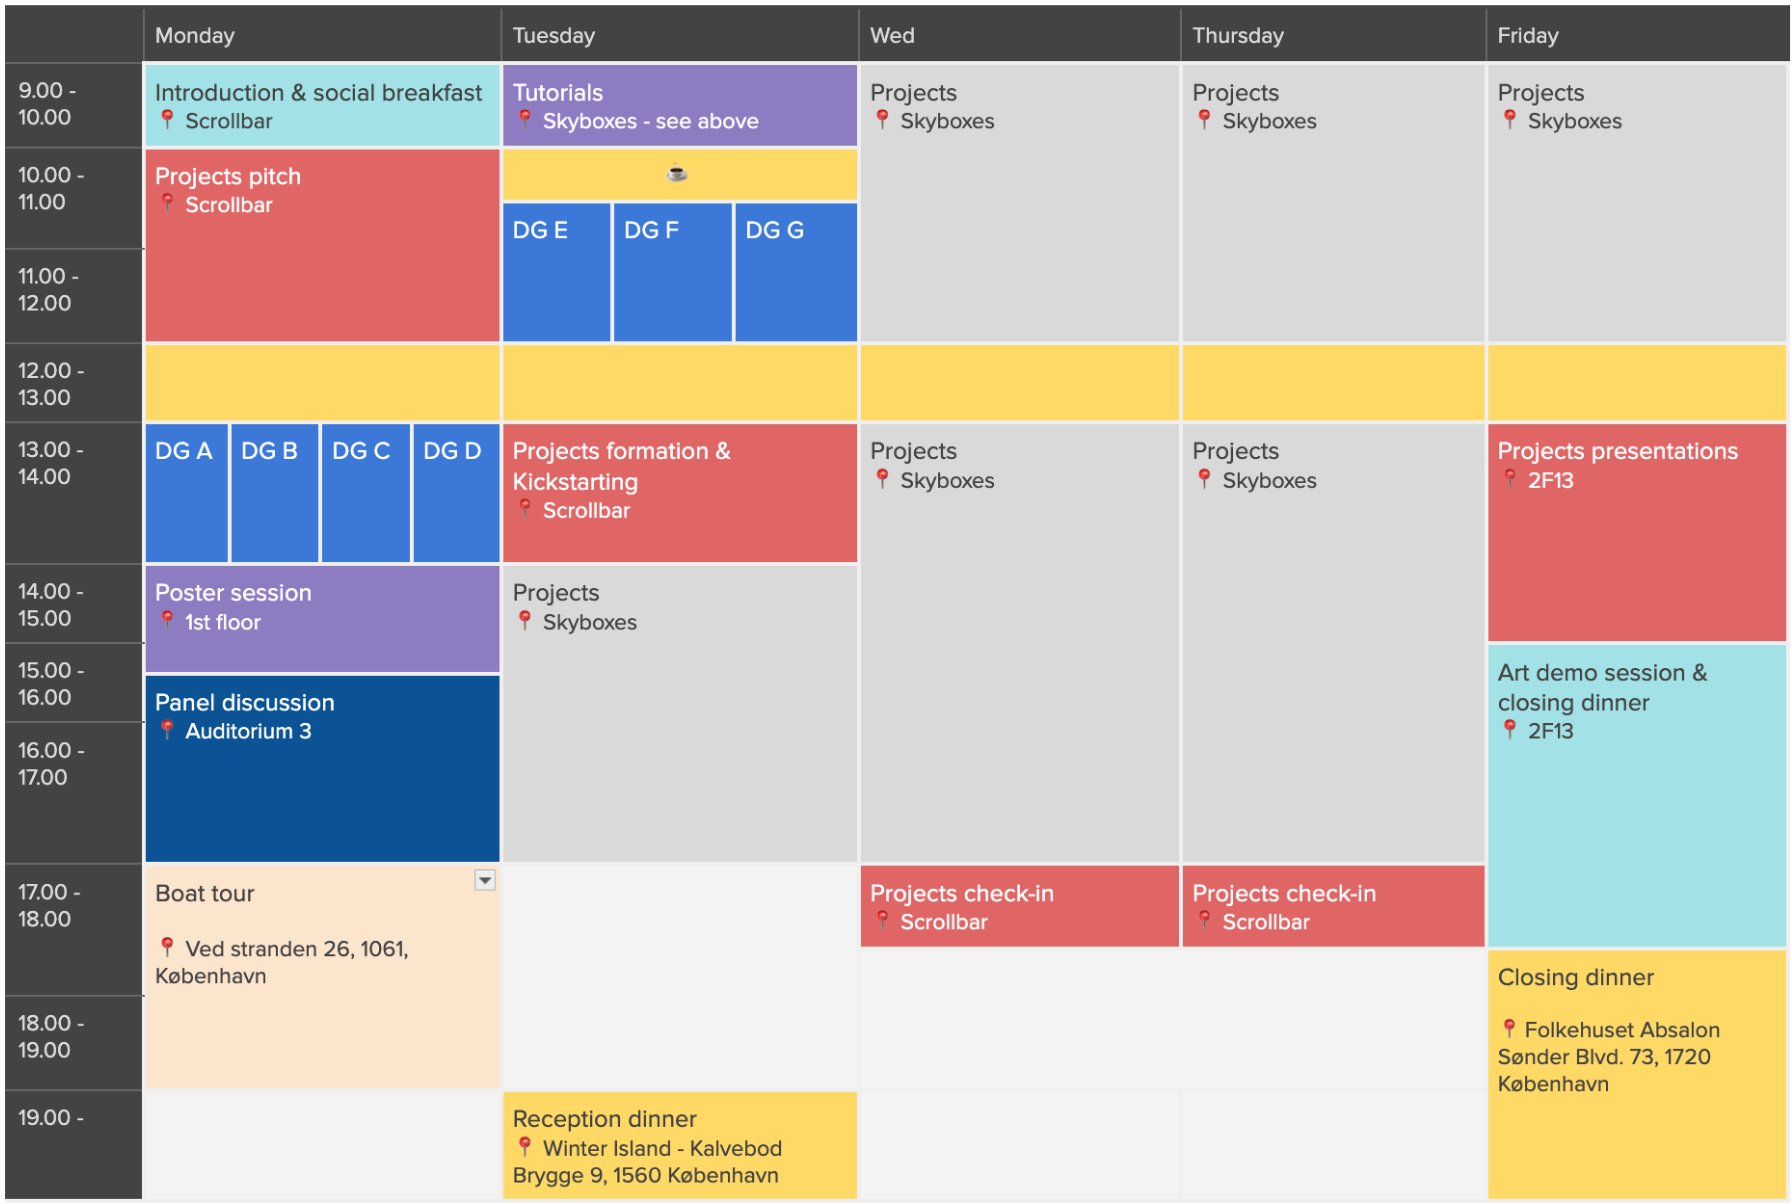
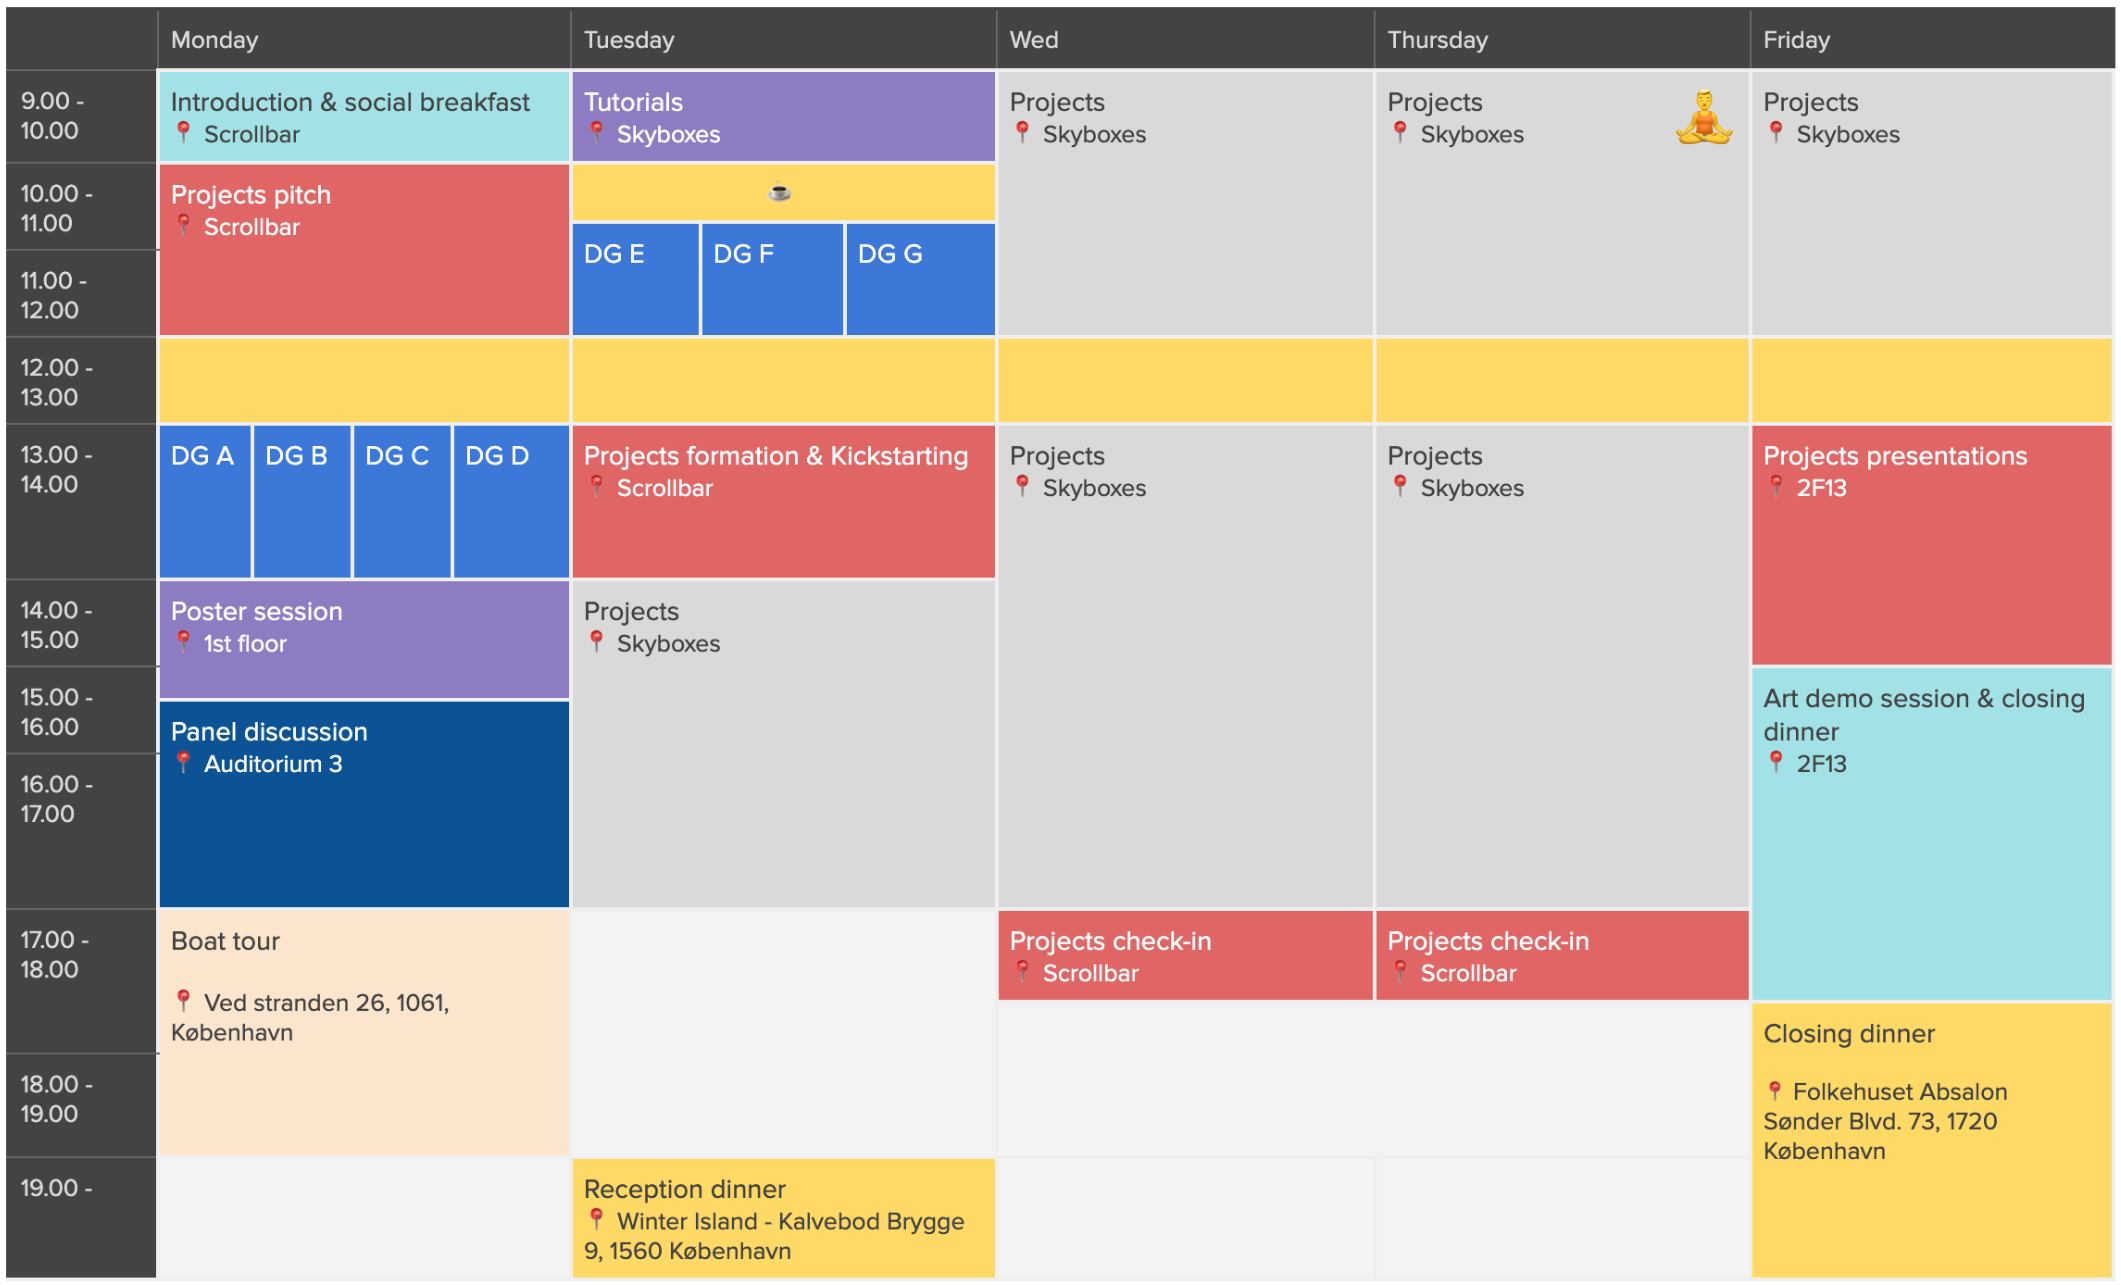
update program

Changed region(s): [[0.0, 0.0, 1.0, 1.0]]

diff --git a/tutorials.md b/tutorials.md
@@ -1,0 +1,61 @@
+---
+layout: page
+title:  Tutorials
+---
+
+
+
+### What's interesting in Information Processing in Cellular Automata?
+
+**Organiser**: Q. Tyrell Davis | **Room**: 3A07
+
+What does a universe need to be interesting? One answer might be that a universe is more likely to be interesting if it supports the emergence of objects that can ask the question (though our perspective is necessarily biased in that regard). Cellular automata have long been an essential class of systems for studying self-organisation, with the tantalising prospect of intrinsic evolution always seemingly just around the corner. CA offer simplicity as self-contained microcosmos for studying the essence of emergence and questioning what makes for interesting dynamics. The continued development of tools based on information theory offer an attractive lens for studying CA, particularly the primitives of storage, transfer, and modification of information. These seem to be deeply correlated to life-like computational processes at the edge of chaos, and we'll survey the confluence of these ideas in this tutorial.
+
+**Preparation/materials:**
+
+A repository accompanying the tutorial can be found at
+https://gitlab.com/asteraceous/iflowinca/-/blob/master/README.md
+
+---
+
+### Neuromorphic Sensing & Computing: Event-Based Vision and Mixed-Signal Neuromorphic Systems
+
+**Organiser**: Federico Corradi | **Room**: 4A05
+
+This tutorial addressed the gap between biological intelligence and electronic hardware by exploring the principles of neuromorphic engineering.  The session introduces the fundamentals of Spiking Neural Networks (SNNs), event-driven sensing, and mixed-signal processing. Through live demonstrations of silicon retinas and neuromorphic processors, participants will observe how asynchronous, bio-inspired sensing and computing capture the principles of massively parallel spike-based sensing and computing. We will discuss how noise, chaos, and self-organization, often suppressed in digital logic, could become an invaluable source  in bio-inspired computing systems.
+
+**Preparation/materials:**
+
+I will demonstrate the event-based camera and the neuromorphic processor
+using my own hardware setup. While I do not expect participants to download software to follow the session, those interested in hands-on experimentation during the workshop/project sessions are welcome to do so. Participants wishing to
+use the hardware can install the following beforehand and or explore it. *Disclaimer*: the software is a research software and not a product, bugs are expected. Several options are possible, so I suggest to wait for the tutorial. For curious minds here the options:
+    
+1. [dv-gui software - officially supported by the vendor of the DVS camera (Inivation)](https://docs.inivation.com/software/dv/gui/index.html)
+2. [dynapse software supported by the vendor (Inivation)](https://rockpool.ai/devices/DynapSE/dynapse-overview.html)
+3. [openFrameworks](https://openframeworks.cc/) (not supported by vendor, but used during my tutorial)
+1. openFrameworks custom addons:
+    1. [for the DVS camera](https://github.com/federicohyo/ofxSiliconRetina)
+    2. [for the neuromorphic processor](https://github.com/federicohyo/ofxDynapse)
+
+
+---
+
+
+### Life as an out-of-equilibrium process. Introduction to Chemical Reaction Networks and out-of-equilibrium thermodynamics.
+
+**Organiser**: Davide Cois | **Room**: 2A05
+
+In this tutorial we use chemical reaction networks (CRNs) to represent energy-driven biochemical dynamics as a model of “life-like” behaviour. The session combines a 30-minute theoretical introduction to CRNs with 30 minutes of hands-on exercises applying the theory in an interactive Python notebook. We'll cover the basics or CRNs, equilibrium properties, and how energy dissipation can drive systems out of equilibrium. The focus is on building physical intuition for analysing persistent currents and continuous energy dissipation, a fundamental signature of living systems. We close with biologically inspired examples illustrating how energy input can enable capabilities beyond equilibrium networks, such as stronger responses and more robust functional behaviour.
+
+
+**Preparation/materials**:
+
+During the interactive part, attendees need to be able to run a Jupyter notebook requiring basic libraries such as numpy, matplotlib, scipy. The notebook has to be downloaded from the Gitlab repo: https://gitlab.com/alice-workshop/alice-crn-tutorial 
+
+---
+
+### Science Communication
+
+**Organiser**: Elise Cutts | **Room**: 5A09
+
+TBA

diff --git a/program.md b/program.md
@@ -4,33 +4,47 @@ title:  Program
 ---
 
 
+### Program 
+
+<br>
+<a href="/assets/images/program/program.png" target="_blank">
+  <img src="/assets/images/program/program.png" class="venue-image" alt="Program"/>
+</a>
+
+
 ### Main activities:
 
--   **Projects**: projects are the backbone of the workshop. Both participants and invited speakers are asked to bring project proposals. During the workshop, the formation of groups is facilitated around the proposed projects. 
+- **Projects**: projects are the backbone of the workshop. Both participants and invited speakers are asked to bring project proposals. During the workshop, the formation of groups is facilitated around the proposed projects. Skybox rooms are booked for the projects every day 9 to 17, except Friday 9 to 12. You may also use them after those hours if not claimed. Besides the booked rooms, you are free to use any of the common areas in the ITU building for your project work.
+  
+  - Monday: 2A05, 3A07, 4A05, 4A09, 5A01, 5A05 and 5A09 (7 skyboxes). 
+  - Tuesday: 2A05, 3A07, 4A05, 4A09, 5A01, 5A05 and 5A09 (7 skyboxes).
+  - Wednesday: 2A05, 2A08, 3A01, 3A05, 3A07, 4A05, 4A09, 5A05 (7 skyboxes + 2A08).
+  - Thursday: 2A05, 3A01, 3A07, 4A05, 5A01, 5A05, 5A09 (7 skyboxes).
+  - Friday: 2A08, 2A05, 3A01, 3A05. 4A09, 5A01, 5A05 (6 skyboxes + 2A08).
+
 
 -   **Discussion groups** (DG): facilitated by a senior researcher, these sessions focus on exchanging ideas, perspective and problems. Discussion sessions happen as group discussion around a blackboard—rather than a traditional keynote format.
 
--   **Tutorials**: proposed, given and chosen by each year participants on relevant topics. Tutorials may be theory-driven, e.g., *An introduction information theory in biological systems*, or on tools, e.g., *Neuroevolution with Julia*.
+    - DG A: Faciliated by Angel Goñi-Moreno - Room: 3A01 - Time: Monday 14:00 - 15:30
+    - DG B: Faciliated by Melanie Mitchell - Room: 5A01 - Time: Tuesday 14:00 - 15:30
+    - DG C: Faciliated by Peter Dittrich - Room: 3A05 - Time: Wednesday 14:00 - 
+
+-   **Tutorials**: proposed, given and chosen by each year participants on relevant topics. This year's tutorials can be found in the [tutorials](/tutorials/).
+<!-- -   Tutorials may be theory-driven, e.g., *An introduction information theory in biological systems*, or on tools, e.g., *Neuroevolution with Julia*. -->
 
 <!-- -   **Project presentation**: the last day of the workshop, teams have a chance to present their early results. -->
 
 
 ### Social activities:
 
-<!-- -   **Hike**: an afternoon hike exploring the [beautiful natural scenery](https://elhierro.travel/en/what-to-do/hiking/) that the island of El Hierro has to offer.  -->
 
-- **City trip**: Visit [Copenhagen Light Festival](https://copenhagenlightfestival.org/en/). Meeting point: [TBA](https://www.google.com/maps).
-<!-- - , and one of the oldest astronomical observatories in Europe: [the round tower](https://www.rundetaarn.dk/en/front-page/). -->
 
--   **Reception dinner**: a relaxed evening gathering with good food, drinks, and time to socialize with fellow attendees. Meeting point: [Green Island](https://maps.app.goo.gl/BFTZyXfCcZQBtiEh6) at 19.00.
+- **City trip**: Visit [Copenhagen Light Festival](https://copenhagenlightfestival.org/en/). Meeting point: [Meeting point: Ved Stranden 26, 1061 København](https://maps.app.goo.gl/xUM1WRSGGcHJn5on8).
+
+-   **Reception dinner**: a relaxed evening gathering with good food, drinks, and time to socialize with fellow attendees. Meeting point: [Green Island - Kalvebod Brygge 9, 1560 København](https://maps.app.goo.gl/BFTZyXfCcZQBtiEh6), Tuesday at 19.00.
+
+- **Guided meditation**: 1-hour Zen introduction session with the teacher from Boundless Way Zen Copenhagen. This includes 30 min guided meditation (sitting + walking), along with some time for Q+A at the end. Meeting point: AIRLab - ITU Ground floor.
 
 -   **Art demo session**: a session aimed at showcasing artistic or musical projects by participants. We welcome any project using technology as a creative medium: conceptual pieces, live coding, [virtual creatures](https://sites.google.com/view/vcc-2024),  [algoraves](https://en.wikipedia.org/wiki/Algorave), experimental music instruments, etc.
 
 
-
-
-### Detailed Program 
-
-<a href="/assets/images/program/program.png" target="_blank">
-  <img src="/assets/images/program/program.png" class="venue-image" alt="Program"/>
-</a>
